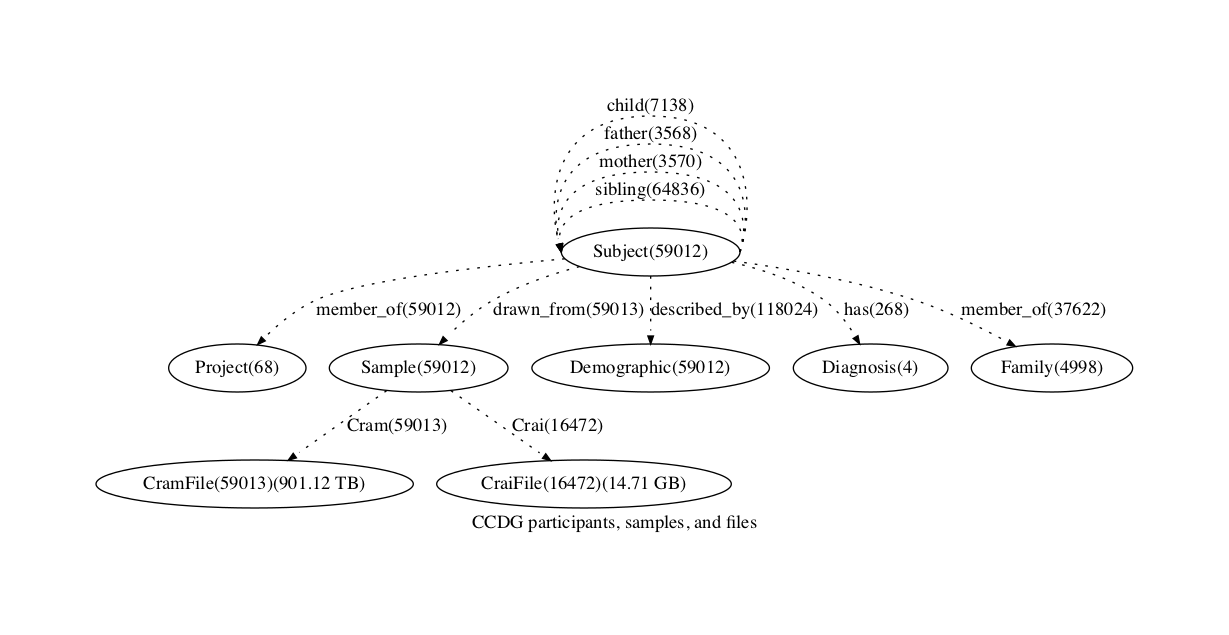
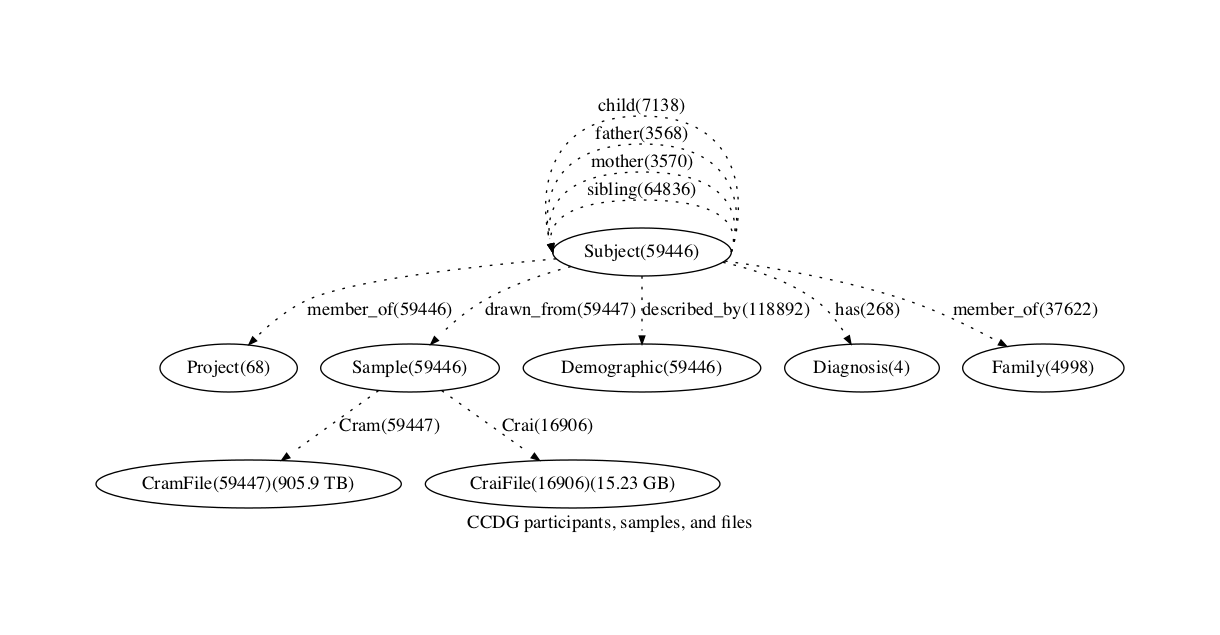
Updates dashboard with latest

diff --git a/pyAnVIL/anvil/terra.py b/pyAnVIL/anvil/terra.py
@@ -44,9 +44,9 @@ def blob_cache_get(bucketName):
     cur = BLOB_CACHE.cursor()
     cur.execute(f"SELECT json FROM blobs where bucketName='{bucketName}'")
     rows = cur.fetchall()
-    logger.debug(f'cache get {bucketName}, {len(rows)} rows')
     if len(rows) == 0:
         return None
+    logger.debug(f'cache get {bucketName}, {rows[0][0]}')
     return json.loads(rows[0][0])
 
 
@@ -63,6 +63,7 @@ def get_blobs(workspace, user_project):
     blobs = blob_cache_get(workspace['bucketName'])
     storage_client = None
     if not blobs:
+        logger.debug('get_blobs', workspace['project'], workspace['bucketName'])
         # Instantiates a google client, # get all blobs in bucket
         try:
             storage_client = storage.Client(project=user_project)
@@ -84,9 +85,12 @@ def get_blobs(workspace, user_project):
             if not storage_client:
                 storage_client = storage.Client(project=user_project)
             project_bucket = storage_client.bucket(project_bucket, user_project)
-            for b in list(project_bucket.list_blobs()):
-                project_blobs[f"gs://{project_bucket.name}/{b.name}"] = {'size': b.size, 'etag': b.etag, 'crc32c': b.crc32c}
-            blob_cache_put(project_bucket.name, project_blobs)
+            try:
+                for b in list(project_bucket.list_blobs()):
+                    project_blobs[f"gs://{project_bucket.name}/{b.name}"] = {'size': b.size, 'etag': b.etag, 'crc32c': b.crc32c}
+                blob_cache_put(project_bucket.name, project_blobs)
+            except Exception as e:
+                print(f"ERROR fetching blobs from google. workspace: {workspace['project']} bucket: {workspace['bucketName']} {str(e)}")
         blobs.update(project_blobs)
     return blobs
 

diff --git a/pyAnVIL/anvil/transformers/__init__.py b/pyAnVIL/anvil/transformers/__init__.py
@@ -36,6 +36,7 @@ class BaseApp():
             self.logger.warning(f'number of blobs in {self.project_pattern}: {blob_sum}')
 
         # add the project schema
+        print('get_terra_projects')
         projects = [terra.get_project_schema(p, fapi=self.fapi) for p in projects]
         self.projects = []
         for p in projects:
@@ -63,10 +64,11 @@ class BaseApp():
 
     def get_terra_participants(self):
         """Returns generator with participants associated with projects."""
+        print('get_terra_participants')
         for p in self.get_terra_projects():
             participants = terra.get_entities(namespace=p.program, workspace=p.project, entity_name='participant', fapi=self.fapi)
             if 'participant' not in p.schema:
-                print(f"? workspace: {p.project} schema: {p.schema}")
+                self.logger.warning(f"? workspace: {p.project} schema: {p.schema}")
                 continue
             assert len(participants) == p.schema.participant.count, f"Retrieved participants entities count {len(participants)} did not match anticipated count in schema {p.schema.participant.count}"
             for participant in participants:
@@ -145,7 +147,9 @@ class BaseApp():
         if self.G:
             return self.G
         G = nx.MultiDiGraph()
+        print('to_graph')
         for project in self.get_terra_projects():
+            print(f'to_graph {project.project_id}')
             G.add_node(project.project_id, label='Project', project_id=project.project_id, public=project.public)
             for k, file in project.project_files.items():
                 type = file.type.replace('.', '').capitalize()

diff --git a/pyAnVIL/apps/make_graph.py b/pyAnVIL/apps/make_graph.py
@@ -75,6 +75,8 @@ def main(namespace, user_project):
         draw_summary(summarize_graph(graph), f'{name} participants, samples, and files', prog='dot')
         graphs.append(graph)
         node_counts.extend(counts)
+
+    exit(1)
     # compose into uber graph
     anvil = nx.compose_all(graphs)
     logger.info(f'AnVIL: {len(anvil.nodes())}')
@@ -102,7 +104,7 @@ def main(namespace, user_project):
 
 if __name__ == '__main__':
     log_fmt = '%(asctime)s - %(name)s - %(levelname)s - %(message)s'
-    logging.basicConfig(level=logging.WARNING, format=log_fmt)
+    logging.basicConfig(level=logging.INFO, format=log_fmt)
 
     # not used in this stub but often useful for finding various files
     project_dir = Path(__file__).resolve().parents[2]

diff --git a/pyAnVIL/anvil/show_projects.py b/pyAnVIL/anvil/show_projects.py
@@ -24,6 +24,6 @@ def all_projects(namespace, project_pattern, user_project):
 if __name__ == '__main__':
 
     log_fmt = '%(asctime)s - %(name)s - %(levelname)s - %(message)s'
-    logging.basicConfig(level=logging.DEBUG, format=log_fmt)
+    logging.basicConfig(level=logging.INFO, format=log_fmt)
 
     all_projects()

diff --git a/pyAnVIL/notebooks/figures/report.md b/pyAnVIL/notebooks/figures/report.md
@@ -1,4 +1,4 @@
-# AnVIL Summary  2020-01-17
+# AnVIL Summary  2020-02-11
 
 ## Combined Graph
 
@@ -1371,9 +1371,9 @@
       <th>AnVIL_CCDG_Broad_AI_IBD_Kugathasan_WGS</th>
       <td></td>
       <td></td>
-      <td>914</td>
-      <td>914</td>
-      <td>914</td>
+      <td>1348</td>
+      <td>1348</td>
+      <td>1348</td>
       <td></td>
       <td></td>
       <td></td>
@@ -1384,14 +1384,14 @@
       <td></td>
       <td></td>
       <td>1</td>
-      <td>914</td>
-      <td>914</td>
+      <td>1348</td>
+      <td>1348</td>
       <td></td>
       <td></td>
       <td></td>
       <td></td>
       <td>False</td>
-      <td>11.76 TB</td>
+      <td>16.54 TB</td>
     </tr>
     <tr>
       <th>AnVIL_CCDG_NYGC_NP_Autism_ACE2_GRU-MDS_WGS</th>

diff --git a/pyAnVIL/README.md b/pyAnVIL/README.md
@@ -25,7 +25,7 @@ from terra
 After cloning this repository
 
 ```
-$ python3 -m anvil.show_projects
+$python3 -m anvil.show_projects --user_project <your test project here>
 WARNING:root:Unable to determine/refresh application credentials
 Go to the following link in your browser:
 
